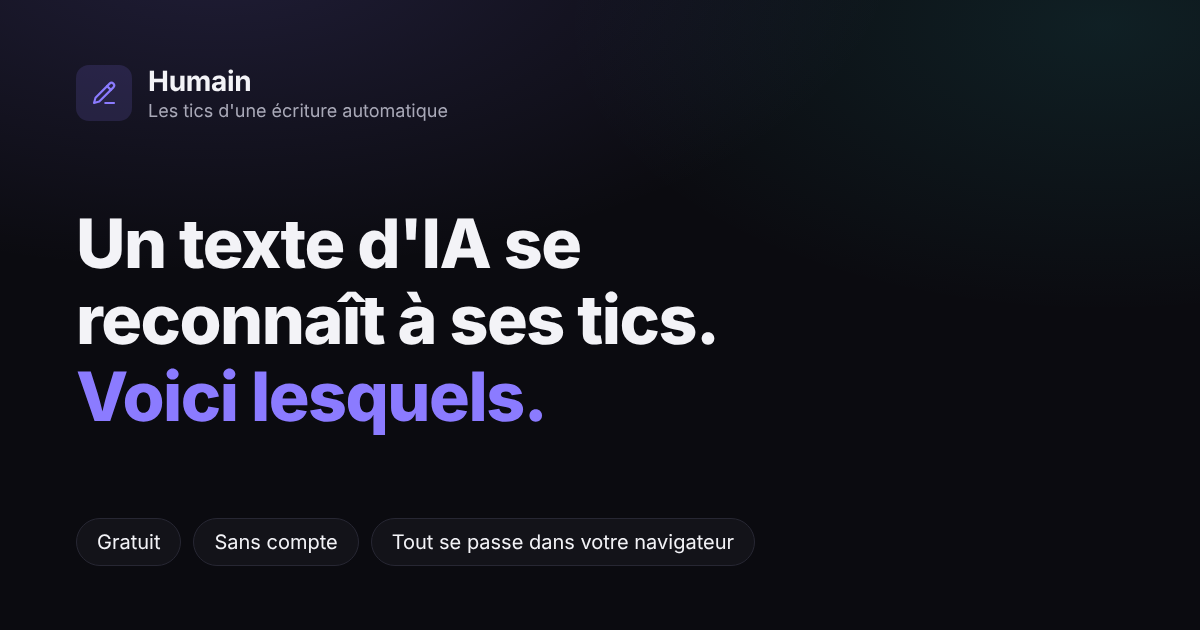
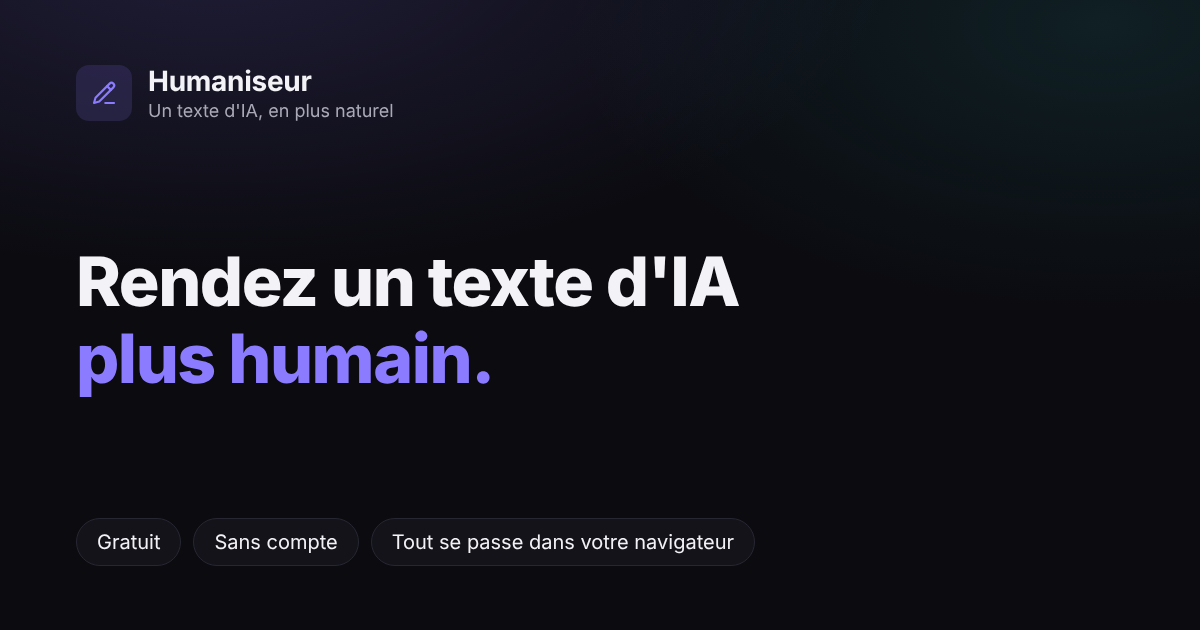
Transforme Humain en humaniseur de texte complet
Renomme l'outil, ajoute le niveau « Complet » (vocabulaire courant, fusion
des phrases très courtes) et reformule la page autour de la réécriture.

Claude-Session: https://claude.ai/code/session_01986koGoDApL2LEbWeAzaQR

Changed region(s): [[0.0617, 0.3317, 0.6167, 0.6937], [0.1233, 0.1206, 0.37, 0.2111]]

diff --git a/outils/humain/humain.js b/outils/humain/humain.js
@@ -17,9 +17,9 @@
 })(typeof globalThis !== 'undefined' ? globalThis : this, function () {
   'use strict';
 
-  /* Intensité : 1 = léger, 2 = standard, 3 = fort. Une règle de niveau n ne
+  /* Intensité : 1 = léger, 2 = standard, 3 = fort, 4 = complet. Une règle de niveau n ne
      s'applique qu'à partir de l'intensité n. */
-  var NIVEAUX = { leger: 1, standard: 2, fort: 3 };
+  var NIVEAUX = { leger: 1, standard: 2, fort: 3, complet: 4 };
 
   var CATEGORIES = {
     robot:  { label: 'Restes de conversation', aide: 'Phrases d\'assistant collées avec le texte : « Bien sûr ! », « N\'hésitez pas… ».' },
@@ -28,7 +28,8 @@
     liaison:{ label: 'Connecteurs en rafale', aide: 'Quand chaque phrase s\'ouvre sur un connecteur, le rythme devient mécanique.' },
     tiret:  { label: 'Tirets cadratins', aide: 'Un texte qui en abuse se reconnaît de loin.' },
     format: { label: 'Mise en forme', aide: 'Gras, titres et pictogrammes ajoutés par réflexe.' },
-    rythme: { label: 'Phrases coupées', aide: 'Une phrase très longue est scindée à un endroit où la grammaire le permet.' }
+    rythme: { label: 'Rythme des phrases', aide: 'Les phrases très longues sont coupées où la grammaire le permet ; au niveau complet, deux phrases très courtes à la suite sont reliées.' },
+    mots:   { label: 'Vocabulaire plus simple', aide: 'Un mot ou une tournure de la langue courante à la place d\'une formule de rapport.' }
   };
 
   /* Bornes de mot qui comprennent les lettres accentuées, ce que \b ne fait
@@ -102,6 +103,36 @@
       re: '(?<=(?:^|[^\\p{L}])(?:un|une|de|des|du|le|la|les|ce|cette|ces) )v[ée]ritables? ',
       vers: '', pourquoi: '« Un véritable défi » dit la même chose que « un défi », avec plus de bruit.' },
 
+
+    /* ---- vocabulaire : la langue courante à la place du rapport */
+    { id: 'met-en-lumiere', cat: 'mots', niveau: 3, re: D + '(met|mettent|mettre|mettant) en lumi[èe]re' + F,
+      vers: function (m) { return { met: 'montre', mettent: 'montrent', mettre: 'montrer', mettant: 'montrant' }[m[1].toLowerCase()]; },
+      pourquoi: '« Montrer » est plus direct.' },
+    { id: 'en-mesure', cat: 'mots', niveau: 3, re: D + '(est|sont|[êe]tre) en mesure de ',
+      vers: function (m) { return { est: 'peut ', sont: 'peuvent ' }[m[1].toLowerCase()] || 'pouvoir '; },
+      pourquoi: '« Pouvoir » dit la même chose en moins de mots.' },
+    { id: 'a-pour-but', cat: 'mots', niveau: 3, re: D + '(a|ont) pour (?:but|objectif) (?:de|d' + APO + ')\\s*',
+      vers: function (m) { return m[1].toLowerCase() === 'a' ? 'vise \u00e0 ' : 'visent \u00e0 '; },
+      pourquoi: '« Viser à » est plus court.' },
+    { id: 'par-le-biais', cat: 'mots', niveau: 3, re: D + 'par le biais (?:de la|de l' + APO + '|du|des)' + F + '\\s*',
+      vers: function (m) { var t = m[0].toLowerCase(); return /de la/.test(t) ? 'par la ' : /de l/.test(t) ? 'par l\'' : /du/.test(t) ? 'par le ' : 'par les '; },
+      pourquoi: '« Par » suffit.' },
+    { id: 'ainsi-que', cat: 'mots', niveau: 4, re: D + 'ainsi que' + F, vers: 'et',
+      pourquoi: '« Et » suffit.' },
+    { id: 'il-existe', cat: 'mots', niveau: 3, re: D + 'il existe (?=(?:de |des |un |une |plusieurs|diff))', vers: 'il y a ',
+      pourquoi: '« Il y a » est de la langue parlée.' },
+    { id: 'eventail', cat: 'mots', niveau: 4, re: D + 'un (?:large |vaste )?[ée]ventail de' + F, vers: 'toute une série de',
+      pourquoi: 'Une image de moins.' },
+    { id: 'nombreuses-reprises', cat: 'mots', niveau: 3, re: D + '[àa] de nombreuses reprises' + F, vers: 'souvent',
+      pourquoi: 'Un mot pour quatre.' },
+    { id: 'de-maniere', cat: 'mots', niveau: 4, re: D + 'de (?:mani[èe]re|fa[çc]on) (?:tr[èe]s )?(efficace|significative|optimale|r[ée]guli[èe]re)' + F,
+      vers: function (m) { return { efficace: 'efficacement', significative: 'nettement', optimale: 'au mieux', 'régulière': 'régulièrement', 'reguliere': 'régulièrement' }[m[1].toLowerCase()]; },
+      pourquoi: 'Un adverbe dit la même chose.' },
+    { id: 'il-s-avere', cat: 'mots', niveau: 4, re: D + 'il s' + APO + 'av[èe]re que' + F, vers: 'en fait,',
+      pourquoi: 'Plus parlé.' },
+    { id: 'cependant-mid', cat: 'mots', niveau: 4, re: ',\\s*cependant\\s*,\\s*', vers: ', mais ',
+      pourquoi: '« Mais » est le connecteur de la parole.' },
+
     /* ---- tournures lourdes */
     { id: 'crucial', cat: 'lourd', niveau: 2,
       re: D + '(crucia|primordia)(l|le|ux|les)' + F,
@@ -148,7 +179,7 @@
   /* Début d'une proposition indépendante : pronom sujet. */
   var SUJET = /^(?:il|elle|ils|elles|on|ce|cela|ça|c['’])(?![\p{L}])/iu;
 
-  var BUDGET_TIRETS = { 1: 2, 2: 1, 3: 0 };
+  var BUDGET_TIRETS = { 1: 2, 2: 1, 3: 0, 4: 0 };
 
   /* ------------------------------------------------------------ phrases */
 
@@ -352,7 +383,30 @@
   }
 
   /* Phrases très longues, coupées à un point de grammaire sûr. */
-  var LIMITE_COUPE = { 2: 38, 3: 26 };
+  var LIMITE_COUPE = { 2: 38, 3: 26, 4: 22 };
+  /* Deux phrases très courtes à la suite, dans le même paragraphe, sont reliées
+     par « , et » : une rafale de phrases de quatre mots sonne comme une liste.
+     Niveau complet seulement, une fusion sur trois phrases au plus, et
+     seulement quand la seconde s'ouvre sur un mot-outil (la minuscule ne peut
+     alors pas défaire un nom propre). */
+  var OUTIL = /^(?:le|la|les|l['’]|un|une|des|ils|elles|il|elle|on|nous|vous|cela|ça)(?![\p{L}])/iu;
+  function opsFusion(txt, niveau) {
+    if (niveau < 4) return [];
+    var ph = phrases(txt), ops = [], dernier = -9;
+    for (var i = 0; i + 1 < ph.length; i++) {
+      var a = ph[i], b = ph[i + 1];
+      if (i - dernier < 3) continue;
+      if (mots(a.texte) > 7 || mots(b.texte) > 7 || mots(a.texte) < 2) continue;
+      if (a.texte.charAt(a.texte.length - 1) !== '.' || /[:;?!]/.test(a.texte + b.texte)) continue;
+      var entre = txt.slice(a.fin, b.deb);
+      if (!/^[ \t]+$/.test(entre) || !OUTIL.test(b.texte)) continue;
+      ops.push({ rule: 'fusion', cat: 'rythme', deb: a.fin - 1, fin: b.deb, avant: '.' + entre, apres: ', et ', min: true, niveau: 4,
+        pourquoi: 'Deux phrases de quelques mots à la suite : reliées, elles respirent comme à l\'oral.' });
+      dernier = i;
+    }
+    return ops;
+  }
+
   function opsRythme(txt, niveau) {
     if (niveau < 2) return [];
     var lim = LIMITE_COUPE[niveau], ops = [];
@@ -385,7 +439,7 @@
     opts = opts || {};
     var niveau = NIVEAUX[opts.intensite] || 2;
     var toutes = opsDesRegles(txt, niveau)
-      .concat(opsLiaison(txt, niveau), opsRythme(txt, niveau), opsTirets(txt, niveau));
+      .concat(opsLiaison(txt, niveau), opsRythme(txt, niveau), opsFusion(txt, niveau), opsTirets(txt, niveau));
     if (!opts.garderForme) toutes = toutes.concat(opsFormat(txt));
     /* Balayage de gauche à droite ; quand deux opérations se chevauchent, la
        plus longue des deux reste (une phrase entière retirée l'emporte sur un
@@ -405,15 +459,15 @@
      appliqué, sauf ce qui est refusé. Rend le texte et, pour chaque opération
      appliquée, sa position dans le texte de sortie (pour la surbrillance). */
   function appliquer(txt, ops, refus) {
-    var sortie = '', curseur = 0, marques = [], maj = false;
+    var sortie = '', curseur = 0, marques = [], maj = false, min = false;
     refus = refus || {};
     /* La majuscule demandée par une opération s'applique à la première lettre
        qui suit, qu'elle vienne du texte d'origine ou de l'opération suivante. */
     var ajoute = function (morceau) {
-      if (maj && morceau) {
+      if ((maj || min) && morceau) {
         var c = morceau.charAt(0);
-        if (/\p{L}/u.test(c)) morceau = c.toUpperCase() + morceau.slice(1);
-        if (!/\s/.test(c)) maj = false;
+        if (/\p{L}/u.test(c)) morceau = (maj ? c.toUpperCase() : c.toLowerCase()) + morceau.slice(1);
+        if (!/\s/.test(c)) { maj = false; min = false; }
       }
       sortie += morceau;
     };
@@ -424,6 +478,7 @@
         var deb = sortie.length;
         ajoute(o.apres);
         if (o.maj) maj = true;
+        if (o.min) min = true;
         marques.push({ id: o.id, deb: deb, fin: sortie.length });
       }
       curseur = o.fin;

diff --git a/outils/humain/index.html b/outils/humain/index.html
@@ -3,20 +3,20 @@
 <head>
 <meta charset="utf-8">
 <meta name="viewport" content="width=device-width, initial-scale=1, viewport-fit=cover">
-<title>Humain — retire d'un texte les tics d'une écriture automatique</title>
-<meta name="description" content="Collez un texte écrit par une IA : l'outil retire les formules creuses, les connecteurs en rafale et les tirets en série, montre chaque changement et dit ce que lui seul ne peut pas corriger. Tout reste dans votre navigateur.">
+<title>Humaniseur de texte — rend un texte d'IA plus naturel, sans l'envoyer nulle part</title>
+<meta name="description" content="Collez un texte écrit par une IA : l'humaniseur le réécrit — formules creuses, connecteurs en rafale, tirets, rythme, vocabulaire — et montre chaque changement. Tout reste dans votre navigateur.">
 <meta name="color-scheme" content="dark light">
 <meta name="theme-color" content="#0b0b10">
 <link rel="canonical" href="https://p5wmt65pvz-wq.github.io/Aimodificator/outils/humain/">
-<meta property="og:title" content="Humain — retire d'un texte les tics d'une écriture automatique">
-<meta property="og:description" content="Chaque changement est montré et peut être refusé. Aucune promesse sur les détecteurs d'IA. Entièrement local.">
+<meta property="og:title" content="Humaniseur de texte — rend un texte d'IA plus naturel, sans l'envoyer nulle part">
+<meta property="og:description" content="Réécriture instantanée, chaque changement refusable, aucune promesse sur les détecteurs d'IA. Entièrement local.">
 <meta property="og:type" content="website">
 <meta property="og:url" content="https://p5wmt65pvz-wq.github.io/Aimodificator/outils/humain/">
 <meta property="og:locale" content="fr_FR">
 <meta property="og:image" content="https://p5wmt65pvz-wq.github.io/Aimodificator/assets/og/humain.png">
 <meta property="og:image:width" content="1200">
 <meta property="og:image:height" content="630">
-<meta property="og:image:alt" content="Humain — Un texte d'IA se reconnaît à ses tics. Voici lesquels.">
+<meta property="og:image:alt" content="Humaniseur — Rendez un texte d'IA plus humain.">
 <meta name="twitter:card" content="summary_large_image">
 <meta name="twitter:image" content="https://p5wmt65pvz-wq.github.io/Aimodificator/assets/og/humain.png">
 <link rel="manifest" href="../../manifest.webmanifest">
@@ -35,7 +35,7 @@
         <path d="M4 20l1.2-4.2L16.5 4.5a2.1 2.1 0 0 1 3 3L8.2 18.8z"/><path d="M14.5 6.5l3 3"/><path d="M13 20h7"/>
       </svg>
     </span>
-    <span class="brand-text"><strong>Humain</strong><small>Les tics d'une écriture automatique</small></span>
+    <span class="brand-text"><strong>Humaniseur</strong><small>Un texte d'IA, en plus naturel</small></span>
   </a>
   <nav class="barre barre-haut" aria-label="Navigation du site">
     <a href="../../#workshop"><svg viewBox="0 0 24 24" fill="none" stroke="currentColor" stroke-width="1.8" stroke-linecap="round" stroke-linejoin="round" aria-hidden="true"><path d="M4 20 14.5 9.5"/><path d="m13 8 3 3"/><path d="M17 3v3M15.5 4.5h3"/><path d="M20 9v2M19 10h2"/><path d="M9 4v2M8 5h2"/></svg><span>Atelier</span></a>
@@ -51,11 +51,12 @@
 
 <main>
   <section class="hero">
-    <h1>Un texte d'IA se reconnaît à ses tics.<br><em>Voici lesquels.</em></h1>
+    <h1>Rendez un texte d'IA<br><em>plus humain.</em></h1>
     <p class="lede">
-      Collez le texte : l'outil retire les formules creuses, les connecteurs en rafale, les tirets
-      en série et les restes de conversation, coupe les phrases interminables, et vous montre
-      <b>chaque changement</b>. Vous gardez ceux que vous voulez, vous refusez les autres.
+      Collez le texte : il est réécrit sur le champ. L'humaniseur retire les formules creuses, les
+      restes de conversation et les tirets en série, varie le rythme des phrases et remplace les
+      tournures de rapport par des mots courants. Il vous montre <b>chaque changement</b> : vous
+      gardez ceux que vous voulez, vous refusez les autres.
     </p>
     <p class="pledge">
       <b>Le texte reste chez vous.</b> Il n'est envoyé à aucun serveur et aucun service extérieur
@@ -65,7 +66,7 @@
 
   <section class="saisie">
     <div class="saisie-head">
-      <label for="texte">Le texte à retravailler</label>
+      <label for="texte">Le texte à humaniser</label>
       <div class="saisie-tools">
         <span class="muted" id="compteur"></span>
         <button type="button" class="btn-ghost" id="vider">Vider</button>
@@ -79,6 +80,7 @@
       <label class="choix"><input type="radio" name="intensite" value="leger"><span><b>Léger</b> restes de conversation, ouvertures creuses</span></label>
       <label class="choix"><input type="radio" name="intensite" value="standard" checked><span><b>Standard</b> + tournures lourdes, connecteurs en rafale, tirets, phrases très longues</span></label>
       <label class="choix"><input type="radio" name="intensite" value="fort"><span><b>Fort</b> + registre courant, phrases coupées plus tôt, aucun tiret cadratin</span></label>
+      <label class="choix"><input type="radio" name="intensite" value="complet"><span><b>Complet</b> + vocabulaire plus simple, phrases très courtes reliées, le plus de réécriture possible</span></label>
       <label class="coche"><input type="checkbox" id="garder-forme"><span>Garder la mise en forme (titres, gras, pictogrammes)</span></label>
     </fieldset>
   </section>
@@ -86,7 +88,7 @@
   <section id="resultat" hidden aria-live="polite">
     <div class="sortie-bloc">
       <div class="saisie-head">
-        <h2 id="titre-sortie">Le texte retravaillé</h2>
+        <h2 id="titre-sortie">Le texte humanisé</h2>
         <div class="saisie-tools">
           <span class="muted" id="compteur-sortie"></span>
           <label class="coche mini"><input type="checkbox" id="surligner" checked><span>Surligner les changements</span></label>
@@ -123,8 +125,8 @@
       <p>
         Il applique des règles écrites, une par une, que vous pouvez lire dans la liste des
         modifications. Il n'« imite » pas un humain et ne <b>réécrit pas avec une IA</b> : il n'y en a
-        pas dans cette page. Il retire ce qui est mécanique ; il ne fabrique pas ce qui fait un
-        texte vivant.
+        pas dans cette page, puisque rien ne quitte votre navigateur. Il réécrit ce qui est mécanique ;
+        il ne fabrique pas ce qui fait un texte vivant.
       </p>
       <p>
         <b>Il ne garantit rien sur les détecteurs d'IA.</b> Ces outils se trompent dans les deux sens,

diff --git a/index.html b/index.html
@@ -299,7 +299,7 @@
       <li><a class="tuile t-photo" href="outils/photo/"><span class="tuile-icone" aria-hidden="true"><svg viewBox="0 0 24 24" fill="none" stroke="currentColor" stroke-width="1.8" stroke-linecap="round" stroke-linejoin="round"><path d="M3 8a2 2 0 0 1 2-2h2.5L9 4h6l1.5 2H19a2 2 0 0 1 2 2v9a2 2 0 0 1-2 2H5a2 2 0 0 1-2-2z"/> <circle cx="12" cy="12.5" r="3.2"/></svg></span><span class="tuile-texte"><strong>Photo propre</strong><span data-i18n="tuile.photo"></span></span></a></li>
       <li><a class="tuile t-empreinte" href="outils/empreinte/"><span class="tuile-icone" aria-hidden="true"><svg viewBox="0 0 24 24" fill="none" stroke="currentColor" stroke-width="1.8" stroke-linecap="round" stroke-linejoin="round"><path d="M12 2a5 5 0 0 0-5 5v3a9 9 0 0 0 1.5 5"/><path d="M12 6a1 1 0 0 0-1 1v4a11 11 0 0 0 2 6.5"/> <path d="M17 7a5 5 0 0 0-1.5-3.5"/><path d="M16.5 11a4.5 4.5 0 0 1-.5 2 13 13 0 0 1-1 3"/> <path d="M5 9a7 7 0 0 1 1-3.5"/></svg></span><span class="tuile-texte"><strong>Empreinte</strong><span data-i18n="tuile.empreinte"></span></span></a></li>
       <li><a class="tuile t-clause" href="outils/clause/"><span class="tuile-icone" aria-hidden="true"><svg viewBox="0 0 24 24" fill="none" stroke="currentColor" stroke-width="1.8" stroke-linecap="round" stroke-linejoin="round"><path d="M6 3h9l4 4v14a1 1 0 0 1-1 1H6a1 1 0 0 1-1-1V4a1 1 0 0 1 1-1z"/> <path d="M14 3v5h5"/><path d="M9 13h6"/><path d="M9 17h4"/></svg></span><span class="tuile-texte"><strong>Clause</strong><span data-i18n="tuile.clause"></span></span></a></li>
-      <li><a class="tuile t-humain" href="outils/humain/"><span class="tuile-icone" aria-hidden="true"><svg viewBox="0 0 24 24" fill="none" stroke="currentColor" stroke-width="1.8" stroke-linecap="round" stroke-linejoin="round"><path d="M4 20l1.2-4.2L16.5 4.5a2.1 2.1 0 0 1 3 3L8.2 18.8z"/><path d="M14.5 6.5l3 3"/><path d="M13 20h7"/></svg></span><span class="tuile-texte"><strong>Humain</strong><span data-i18n="tuile.humain"></span></span></a></li>
+      <li><a class="tuile t-humain" href="outils/humain/"><span class="tuile-icone" aria-hidden="true"><svg viewBox="0 0 24 24" fill="none" stroke="currentColor" stroke-width="1.8" stroke-linecap="round" stroke-linejoin="round"><path d="M4 20l1.2-4.2L16.5 4.5a2.1 2.1 0 0 1 3 3L8.2 18.8z"/><path d="M14.5 6.5l3 3"/><path d="M13 20h7"/></svg></span><span class="tuile-texte"><strong>Humaniseur</strong><span data-i18n="tuile.humain"></span></span></a></li>
       <li><a class="tuile t-application" href="application/"><span class="tuile-icone" aria-hidden="true"><svg viewBox="0 0 24 24" fill="none" stroke="currentColor" stroke-width="1.8" stroke-linecap="round" stroke-linejoin="round"><rect x="6" y="2.5" width="12" height="19" rx="2.5"/><path d="M10.5 18.5h3"/><path d="M12 7v6"/><path d="M9.5 10.5L12 13l2.5-2.5"/></svg></span><span class="tuile-texte"><strong data-i18n="nav.app"></strong><span data-i18n="tuile.application"></span></span></a></li>
     </ul>
   </section>

diff --git a/exemples/index.html b/exemples/index.html
@@ -509,7 +509,7 @@ Commence maintenant.</pre>
 
 <footer class="site-footer">
   <p>Page générée depuis le moteur du site. Aucune sortie n'est écrite à la main.</p>
-  <p class="muted"><a href="../">PromptForge</a> · <a href="../outils/empreinte/">Empreinte</a> · <a href="../outils/photo/">Photo propre</a> · <a href="../outils/clause/">Clause</a> · <a href="../outils/passe/">Passe</a> · <a href="../outils/abonnements/">Abonnements</a> · <a href="../outils/vrai-prix/">Vrai prix</a> · <a href="../outils/partage/">Partage</a> · <a href="../outils/humain/">Humain</a> · <a href="../application/">Application</a> · <a href="https://github.com/P5wmt65pvz-wq/Aimodificator" rel="noopener">Code source ouvert</a></p>
+  <p class="muted"><a href="../">PromptForge</a> · <a href="../outils/empreinte/">Empreinte</a> · <a href="../outils/photo/">Photo propre</a> · <a href="../outils/clause/">Clause</a> · <a href="../outils/passe/">Passe</a> · <a href="../outils/abonnements/">Abonnements</a> · <a href="../outils/vrai-prix/">Vrai prix</a> · <a href="../outils/partage/">Partage</a> · <a href="../outils/humain/">Humaniseur</a> · <a href="../application/">Application</a> · <a href="https://github.com/P5wmt65pvz-wq/Aimodificator" rel="noopener">Code source ouvert</a></p>
 </footer>
 
 

diff --git a/outils/empreinte/index.html b/outils/empreinte/index.html
@@ -149,7 +149,7 @@
 
 <footer class="site-footer">
   <p>Tout est calculé dans votre navigateur. Aucune donnée n'est transmise, stockée ni analysée ailleurs.</p>
-  <p class="muted"><a href="../../en/fingerprint/" hreflang="en" lang="en">English version</a> · <a href="../photo/">Photo propre</a> · <a href="../clause/">Clause</a> · <a href="../passe/">Passe</a> · <a href="../abonnements/">Abonnements</a> · <a href="../vrai-prix/">Vrai prix</a> · <a href="../partage/">Partage</a> · <a href="../humain/">Humain</a> · <a href="../../">PromptForge</a> · <a href="../../application/">Application</a> · <a href="https://github.com/P5wmt65pvz-wq/Aimodificator" rel="noopener">Code source ouvert</a></p>
+  <p class="muted"><a href="../../en/fingerprint/" hreflang="en" lang="en">English version</a> · <a href="../photo/">Photo propre</a> · <a href="../clause/">Clause</a> · <a href="../passe/">Passe</a> · <a href="../abonnements/">Abonnements</a> · <a href="../vrai-prix/">Vrai prix</a> · <a href="../partage/">Partage</a> · <a href="../humain/">Humaniseur</a> · <a href="../../">PromptForge</a> · <a href="../../application/">Application</a> · <a href="https://github.com/P5wmt65pvz-wq/Aimodificator" rel="noopener">Code source ouvert</a></p>
 </footer>
 
 

diff --git a/application/index.html b/application/index.html
@@ -195,7 +195,7 @@
 
 <footer class="site-footer">
   <p>Tout est calculé dans votre navigateur. Aucune donnée n'est transmise, stockée ni analysée ailleurs.</p>
-  <p class="muted"><a href="../outils/empreinte/">Empreinte</a> · <a href="../outils/photo/">Photo propre</a> · <a href="../outils/clause/">Clause</a> · <a href="../outils/passe/">Passe</a> · <a href="../outils/abonnements/">Abonnements</a> · <a href="../outils/vrai-prix/">Vrai prix</a> · <a href="../outils/partage/">Partage</a> · <a href="../outils/humain/">Humain</a> · <a href="../">PromptForge</a> · <a href="https://github.com/P5wmt65pvz-wq/Aimodificator" rel="noopener">Code source ouvert</a></p>
+  <p class="muted"><a href="../outils/empreinte/">Empreinte</a> · <a href="../outils/photo/">Photo propre</a> · <a href="../outils/clause/">Clause</a> · <a href="../outils/passe/">Passe</a> · <a href="../outils/abonnements/">Abonnements</a> · <a href="../outils/vrai-prix/">Vrai prix</a> · <a href="../outils/partage/">Partage</a> · <a href="../outils/humain/">Humaniseur</a> · <a href="../">PromptForge</a> · <a href="https://github.com/P5wmt65pvz-wq/Aimodificator" rel="noopener">Code source ouvert</a></p>
 </footer>
 
 

diff --git a/outils/passe/index.html b/outils/passe/index.html
@@ -270,7 +270,7 @@
 
 <footer class="site-footer">
   <p>Tout est calculé dans votre navigateur. Aucune donnée n'est transmise, stockée ni analysée ailleurs.</p>
-  <p class="muted"><a href="../empreinte/">Empreinte</a> · <a href="../photo/">Photo propre</a> · <a href="../clause/">Clause</a> · <a href="../abonnements/">Abonnements</a> · <a href="../vrai-prix/">Vrai prix</a> · <a href="../partage/">Partage</a> · <a href="../humain/">Humain</a> · <a href="../../">PromptForge</a> · <a href="../../application/">Application</a> · <a href="https://github.com/P5wmt65pvz-wq/Aimodificator" rel="noopener">Code source ouvert</a></p>
+  <p class="muted"><a href="../empreinte/">Empreinte</a> · <a href="../photo/">Photo propre</a> · <a href="../clause/">Clause</a> · <a href="../abonnements/">Abonnements</a> · <a href="../vrai-prix/">Vrai prix</a> · <a href="../partage/">Partage</a> · <a href="../humain/">Humaniseur</a> · <a href="../../">PromptForge</a> · <a href="../../application/">Application</a> · <a href="https://github.com/P5wmt65pvz-wq/Aimodificator" rel="noopener">Code source ouvert</a></p>
 </footer>
 
 

diff --git a/outils/clause/index.html b/outils/clause/index.html
@@ -163,7 +163,7 @@
 
 <footer class="site-footer">
   <p>Tout est calculé dans votre navigateur. Aucune donnée n'est transmise, stockée ni analysée ailleurs.</p>
-  <p class="muted"><a href="../empreinte/">Empreinte</a> · <a href="../photo/">Photo propre</a> · <a href="../passe/">Passe</a> · <a href="../abonnements/">Abonnements</a> · <a href="../vrai-prix/">Vrai prix</a> · <a href="../partage/">Partage</a> · <a href="../humain/">Humain</a> · <a href="../../">PromptForge</a> · <a href="../../application/">Application</a> · <a href="https://github.com/P5wmt65pvz-wq/Aimodificator" rel="noopener">Code source ouvert</a></p>
+  <p class="muted"><a href="../empreinte/">Empreinte</a> · <a href="../photo/">Photo propre</a> · <a href="../passe/">Passe</a> · <a href="../abonnements/">Abonnements</a> · <a href="../vrai-prix/">Vrai prix</a> · <a href="../partage/">Partage</a> · <a href="../humain/">Humaniseur</a> · <a href="../../">PromptForge</a> · <a href="../../application/">Application</a> · <a href="https://github.com/P5wmt65pvz-wq/Aimodificator" rel="noopener">Code source ouvert</a></p>
 </footer>
 
 

diff --git a/outils/partage/index.html b/outils/partage/index.html
@@ -198,7 +198,7 @@
 
 <footer class="site-footer">
   <p>Tout est calculé dans votre navigateur. Aucune donnée n'est transmise, stockée ni analysée ailleurs.</p>
-  <p class="muted"><a href="../empreinte/">Empreinte</a> · <a href="../photo/">Photo propre</a> · <a href="../clause/">Clause</a> · <a href="../passe/">Passe</a> · <a href="../abonnements/">Abonnements</a> · <a href="../vrai-prix/">Vrai prix</a> · <a href="../humain/">Humain</a> · <a href="../../">PromptForge</a> · <a href="../../application/">Application</a> · <a href="https://github.com/P5wmt65pvz-wq/Aimodificator" rel="noopener">Code source ouvert</a></p>
+  <p class="muted"><a href="../empreinte/">Empreinte</a> · <a href="../photo/">Photo propre</a> · <a href="../clause/">Clause</a> · <a href="../passe/">Passe</a> · <a href="../abonnements/">Abonnements</a> · <a href="../vrai-prix/">Vrai prix</a> · <a href="../humain/">Humaniseur</a> · <a href="../../">PromptForge</a> · <a href="../../application/">Application</a> · <a href="https://github.com/P5wmt65pvz-wq/Aimodificator" rel="noopener">Code source ouvert</a></p>
 </footer>
 
 

diff --git a/outils/photo/index.html b/outils/photo/index.html
@@ -209,7 +209,7 @@
 
 <footer class="site-footer">
   <p>Tout est calculé dans votre navigateur. Aucune donnée n'est transmise, stockée ni analysée ailleurs.</p>
-  <p class="muted"><a href="../empreinte/">Empreinte</a> · <a href="../clause/">Clause</a> · <a href="../passe/">Passe</a> · <a href="../abonnements/">Abonnements</a> · <a href="../vrai-prix/">Vrai prix</a> · <a href="../partage/">Partage</a> · <a href="../humain/">Humain</a> · <a href="../../">PromptForge</a> · <a href="../../application/">Application</a> · <a href="https://github.com/P5wmt65pvz-wq/Aimodificator" rel="noopener">Code source ouvert</a></p>
+  <p class="muted"><a href="../empreinte/">Empreinte</a> · <a href="../clause/">Clause</a> · <a href="../passe/">Passe</a> · <a href="../abonnements/">Abonnements</a> · <a href="../vrai-prix/">Vrai prix</a> · <a href="../partage/">Partage</a> · <a href="../humain/">Humaniseur</a> · <a href="../../">PromptForge</a> · <a href="../../application/">Application</a> · <a href="https://github.com/P5wmt65pvz-wq/Aimodificator" rel="noopener">Code source ouvert</a></p>
 </footer>
 
 

diff --git a/outils/vrai-prix/index.html b/outils/vrai-prix/index.html
@@ -192,7 +192,7 @@
 
 <footer class="site-footer">
   <p>Tout est calculé dans votre navigateur. Aucune donnée n'est transmise, stockée ni analysée ailleurs.</p>
-  <p class="muted"><a href="../empreinte/">Empreinte</a> · <a href="../photo/">Photo propre</a> · <a href="../clause/">Clause</a> · <a href="../passe/">Passe</a> · <a href="../abonnements/">Abonnements</a> · <a href="../partage/">Partage</a> · <a href="../humain/">Humain</a> · <a href="../../">PromptForge</a> · <a href="../../application/">Application</a> · <a href="https://github.com/P5wmt65pvz-wq/Aimodificator" rel="noopener">Code source ouvert</a></p>
+  <p class="muted"><a href="../empreinte/">Empreinte</a> · <a href="../photo/">Photo propre</a> · <a href="../clause/">Clause</a> · <a href="../passe/">Passe</a> · <a href="../abonnements/">Abonnements</a> · <a href="../partage/">Partage</a> · <a href="../humain/">Humaniseur</a> · <a href="../../">PromptForge</a> · <a href="../../application/">Application</a> · <a href="https://github.com/P5wmt65pvz-wq/Aimodificator" rel="noopener">Code source ouvert</a></p>
 </footer>
 
 

diff --git a/outils/abonnements/index.html b/outils/abonnements/index.html
@@ -197,7 +197,7 @@
 
 <footer class="site-footer">
   <p>Tout est calculé dans votre navigateur. Aucune donnée n'est transmise, stockée ni analysée ailleurs.</p>
-  <p class="muted"><a href="../empreinte/">Empreinte</a> · <a href="../photo/">Photo propre</a> · <a href="../clause/">Clause</a> · <a href="../passe/">Passe</a> · <a href="../vrai-prix/">Vrai prix</a> · <a href="../partage/">Partage</a> · <a href="../humain/">Humain</a> · <a href="../../">PromptForge</a> · <a href="../../application/">Application</a> · <a href="https://github.com/P5wmt65pvz-wq/Aimodificator" rel="noopener">Code source ouvert</a></p>
+  <p class="muted"><a href="../empreinte/">Empreinte</a> · <a href="../photo/">Photo propre</a> · <a href="../clause/">Clause</a> · <a href="../passe/">Passe</a> · <a href="../vrai-prix/">Vrai prix</a> · <a href="../partage/">Partage</a> · <a href="../humain/">Humaniseur</a> · <a href="../../">PromptForge</a> · <a href="../../application/">Application</a> · <a href="https://github.com/P5wmt65pvz-wq/Aimodificator" rel="noopener">Code source ouvert</a></p>
 </footer>
 
 
